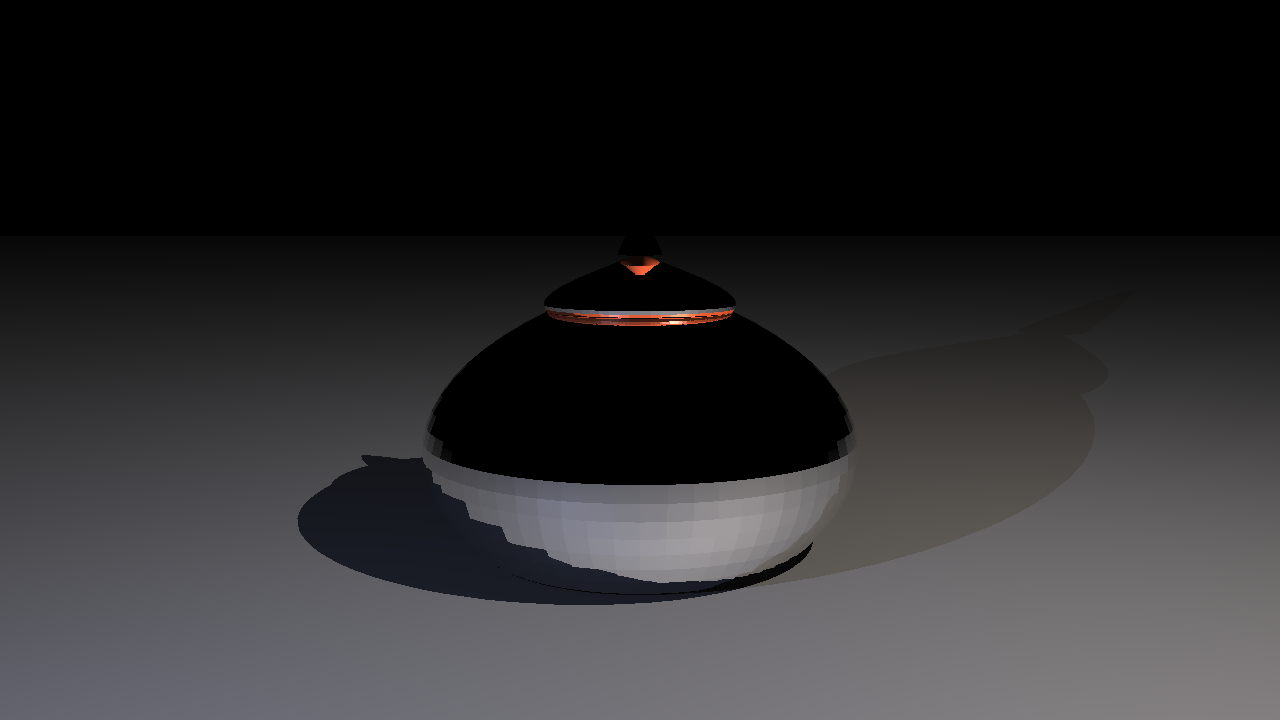
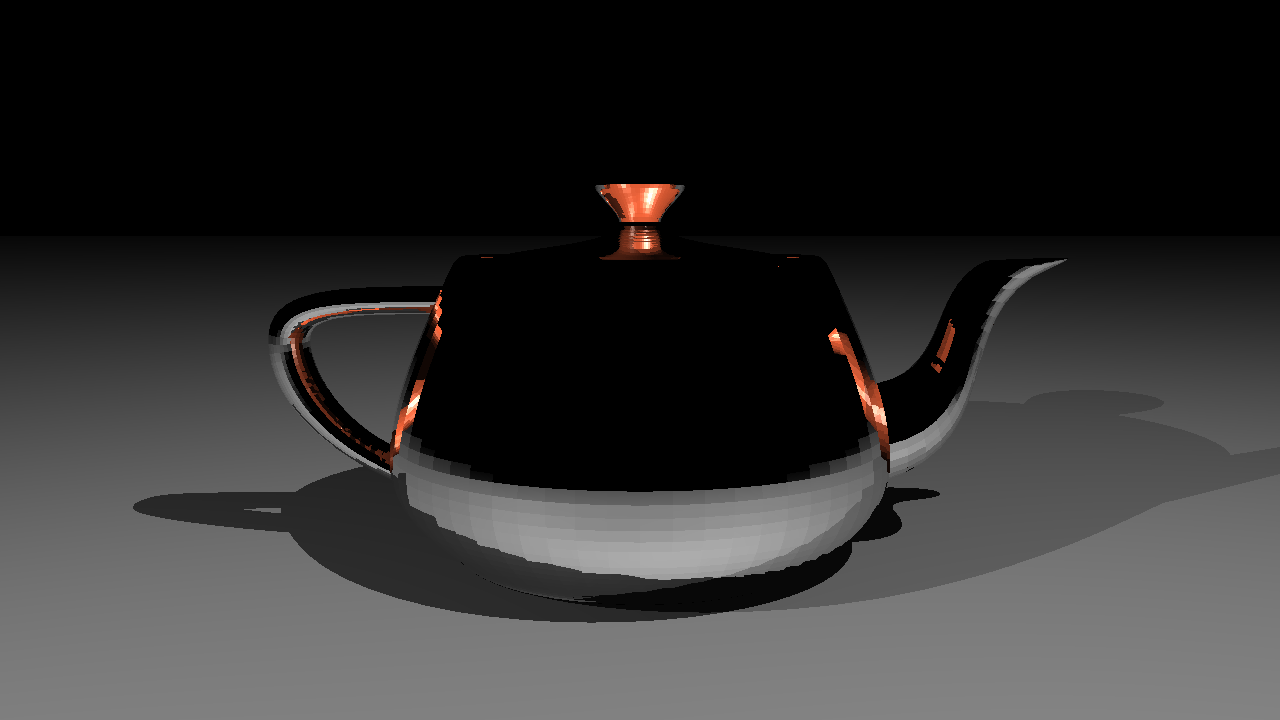
on texture now

Changed region(s): [[0.0, 0.3667, 0.875, 1.0], [0.4688, 0.2444, 0.5312, 0.3972]]

diff --git a/readme.md b/readme.md
@@ -7,20 +7,24 @@ Objective 9
 -- added the parse cone functionality in parser.py
 -- you can run this CLI to test : 
     python main.py -i scenes/Cone.json -s
+--or
+    open "out/Cone.png"
 
 0.5 point
 -- Sampling and Recursion : Mirror reflection
 -- add the compute_reflection in scene.py
 -- you can run this CLI to test : 
     python main.py -i scenes/MirrorBall.json -s
-
+-- or 
+    open "out/MirrorBall.png"
 
 0.5 point
 -- Sampling and Recursion : Refraction
 -- add the compute_refraction in scene.py
 -- you can run this CLI to test : 
     python main.py -i scenes/GlassSphere.json -s
-
+-- or 
+    open "out/GlassSphere.png"
 
 0.5 point
 -- Sampling and Recursion : Motion Blur
@@ -28,15 +32,24 @@ Objective 9
 -- for shader use the total hit to calculate the fraction of color accumulating 
 -- you can run this CLI to test : 
     python main.py -i scenes/Sphere_motion.json -s
+-- or 
+    open "out/Sphere_motion.png"  
 
 1.5 point
 -- Geometry : Ray marched implicits --> Metaballs
 -- use ray marching to determine the surface of a metaball field defined by multiple implicit spheres
 -- you can run this CLI to test :
    python main.py -i scenes/Metaball.json -s
+-- or 
+    open "out/Metaball.png"
 
 
 2 point
 -- Geometry : Bezier surface patches --> Teapot
 -- use evalpatch and tesslation to convert
 -- following the idea of : https://www.scratchapixel.com/lessons/geometry/bezier-curve-rendering-utah-teapot/bezier-surface.html
+-- you can varify the data is in controll points in Teapot.json and run this CLI to test:
+    python main.py -i scenes/Teapot.json -s
+-- or 
+    open "out/Teapot.png"
+    
